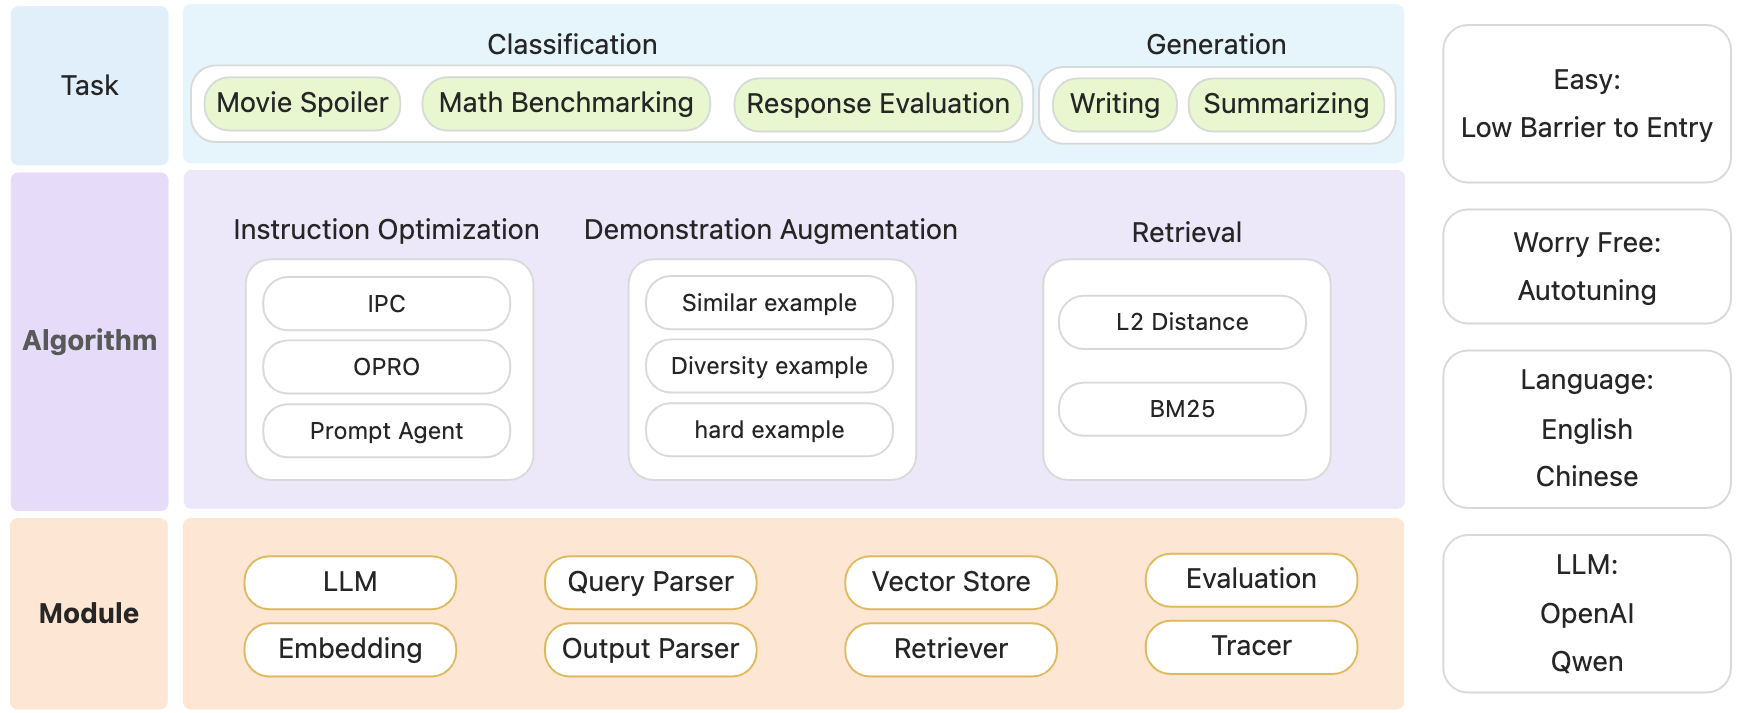
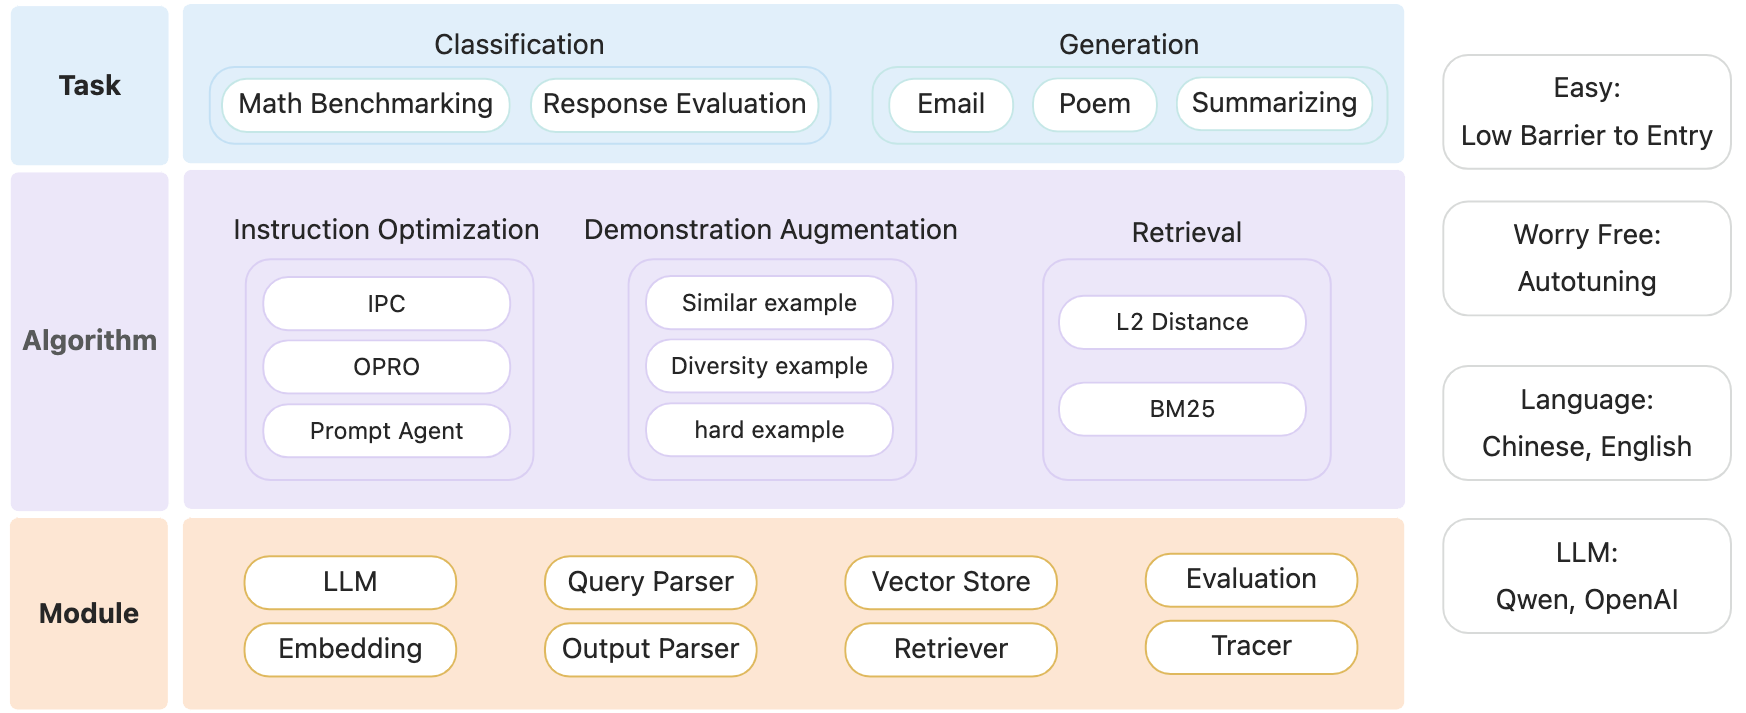
add prompt structure

diff --git a/README.md b/README.md
@@ -12,7 +12,7 @@ Welcome to PromptScope! In the ever-evolving landscape of artificial intelligenc
 
 <p align="center">
     <br>
-    <img src="resources/diagram_2.png"/>
+    <img src="resources/diagram.png"/>
     <br>
 <p>
 <p align="center">
@@ -30,7 +30,19 @@ Note: This project is currently in active development, it's recommended to insta
 
 ## 🚀 Getting Started
 
-We provide (1) examples for similar and diversity demonstration generation. (2) [examples](examples/offline_examples/example.md) for prompt optimization with IPC, OPRO and PromptAgent.
+We propose that an effective prompt structure consists of three key components: the instruction, which outlines the task description; the demonstration, which provides ideal input-output examples; and the query, which specifies the particular question being posed. This tripartite framework facilitates a clearer understanding of the task at hand, enhances the quality of the model's responses, and ultimately improves overall performance in various applications.
+
+<p align="center">
+    <br>
+    <img src="resources/prompt.png"/>
+    <br>
+<p>
+<p align="center">
+
+On top of that, we provide:
+- Examples for similar and diversity demonstration generation.
+- [Examples](examples/offline_examples/example.md) for instruction optimization with IPC, OPRO and PromptAgent.
+- [Example](examples/gsm8k_example) for an end-to-end prompt optimization workflow on GSM-8K benchmark, with both demonstration augmentation and instruction optimization.
 
 ## 🖋 Contributing
 
